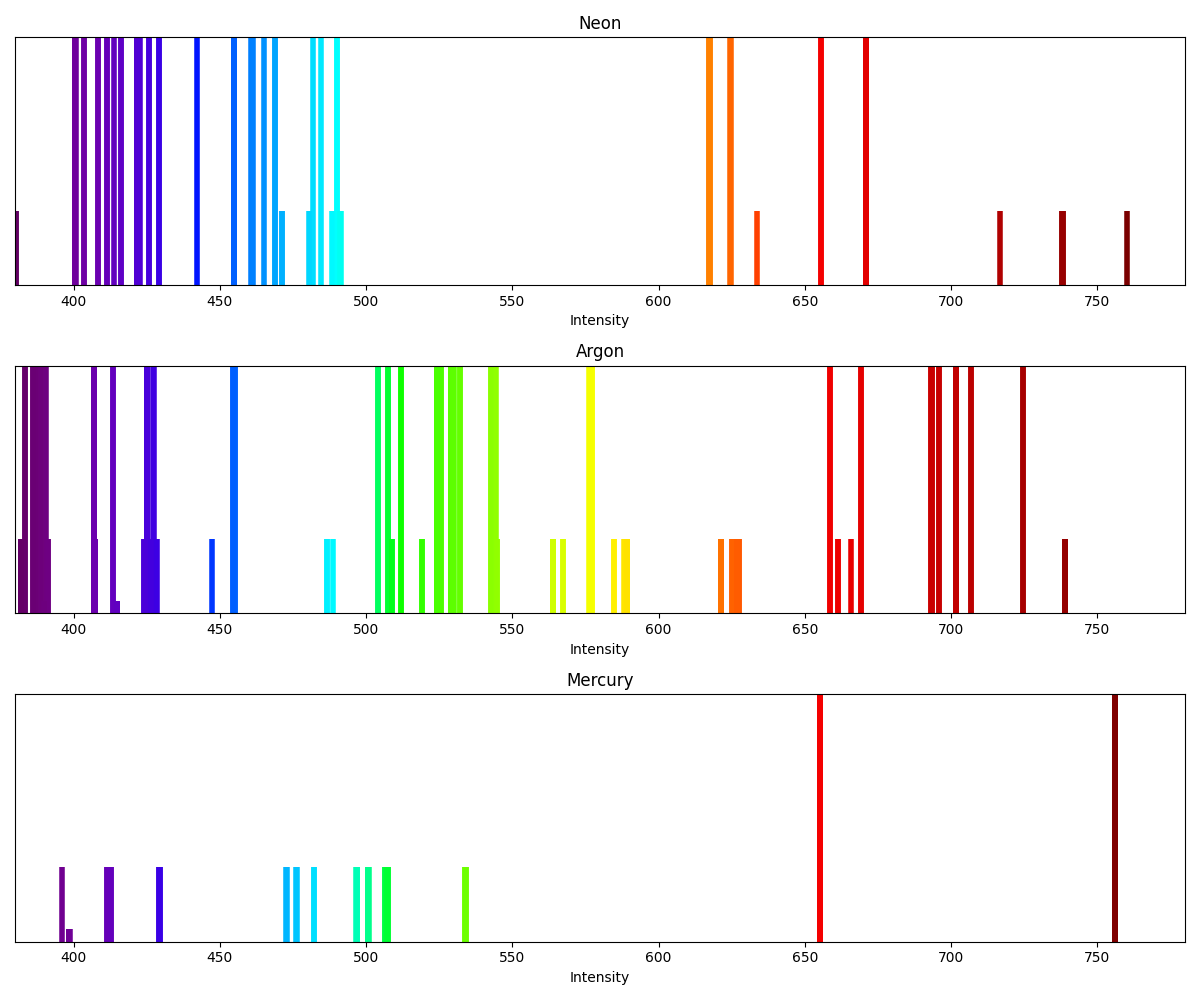
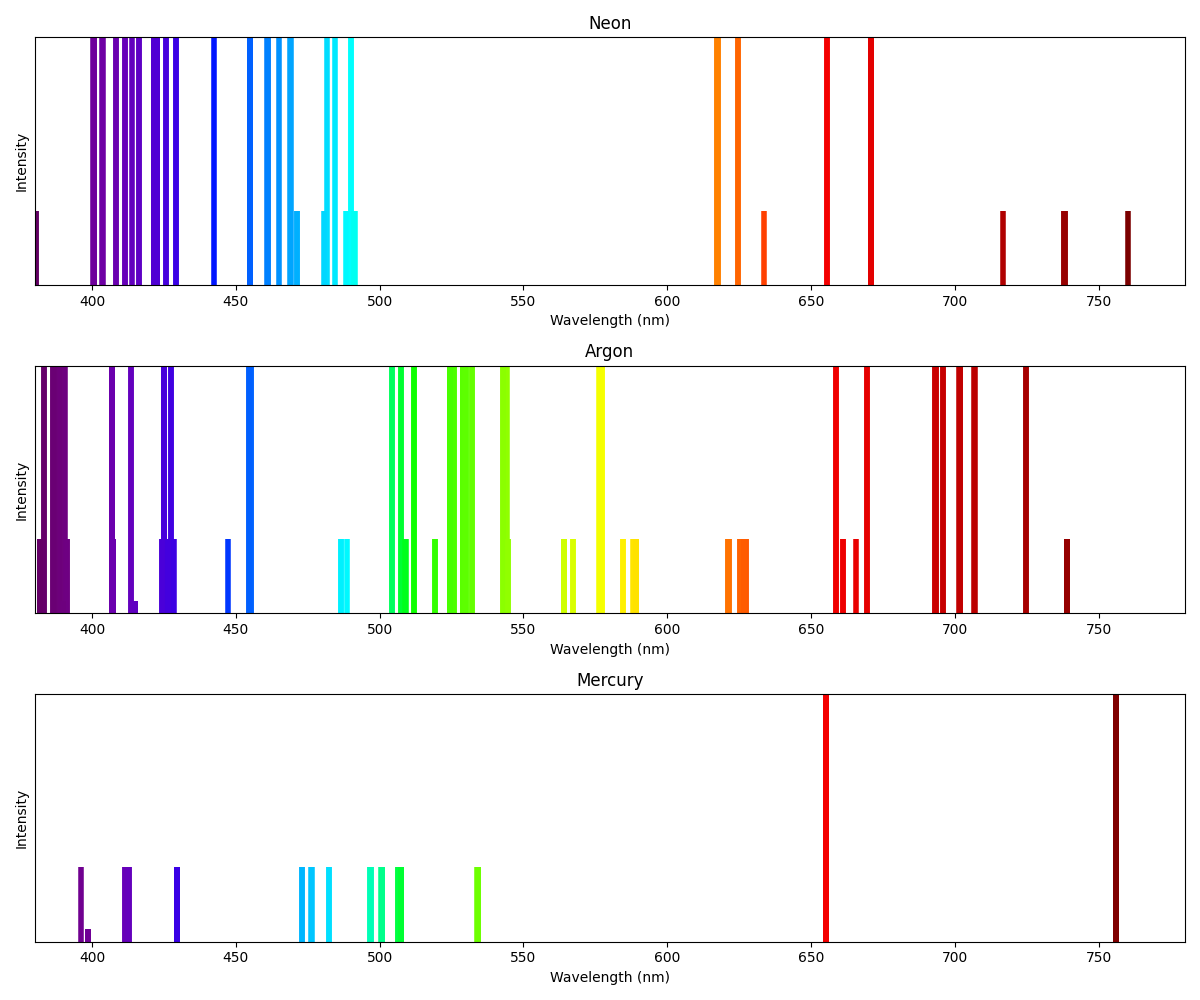
x axis intensity fix

diff --git a/figures/pred_emission.py b/figures/pred_emission.py
@@ -84,7 +84,7 @@ for i in range(3):
     ax[i].set_xlim(380, 780)
     ax[i].set_ylim(0, 1)
     ax[i].set_xlabel("Wavelength (nm)")
-    ax[i].set_xlabel("Intensity")
+    ax[i].set_ylabel("Intensity")
     ax[i].set_yticks([])
 
 plt.tight_layout()
